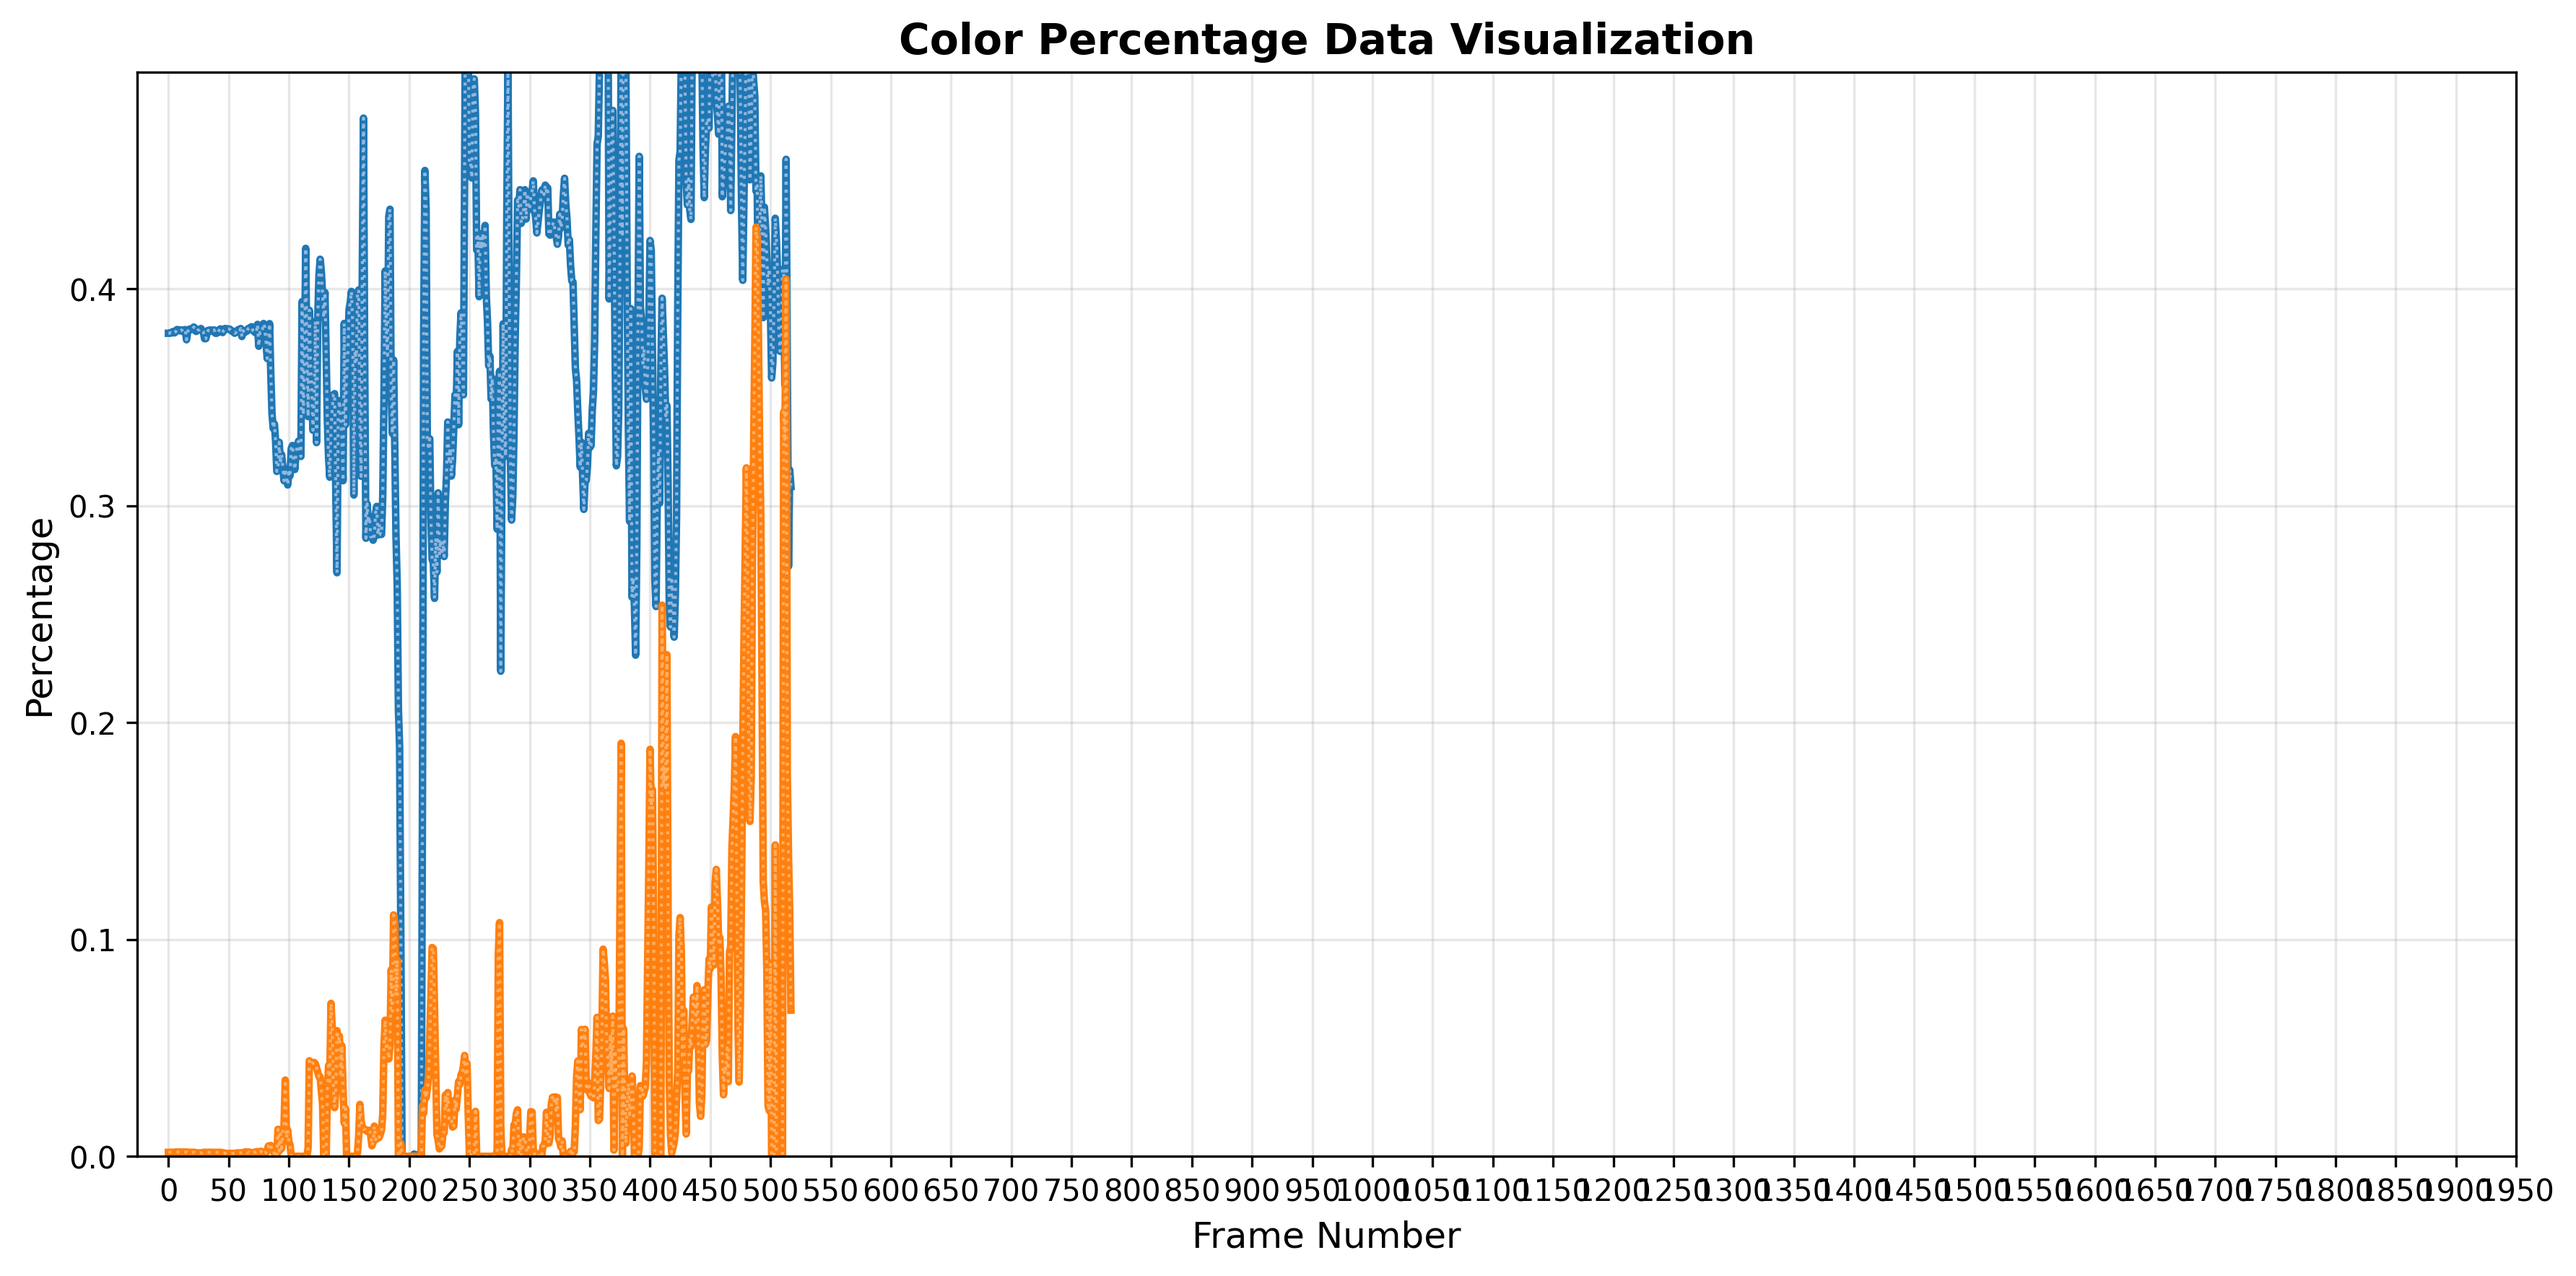
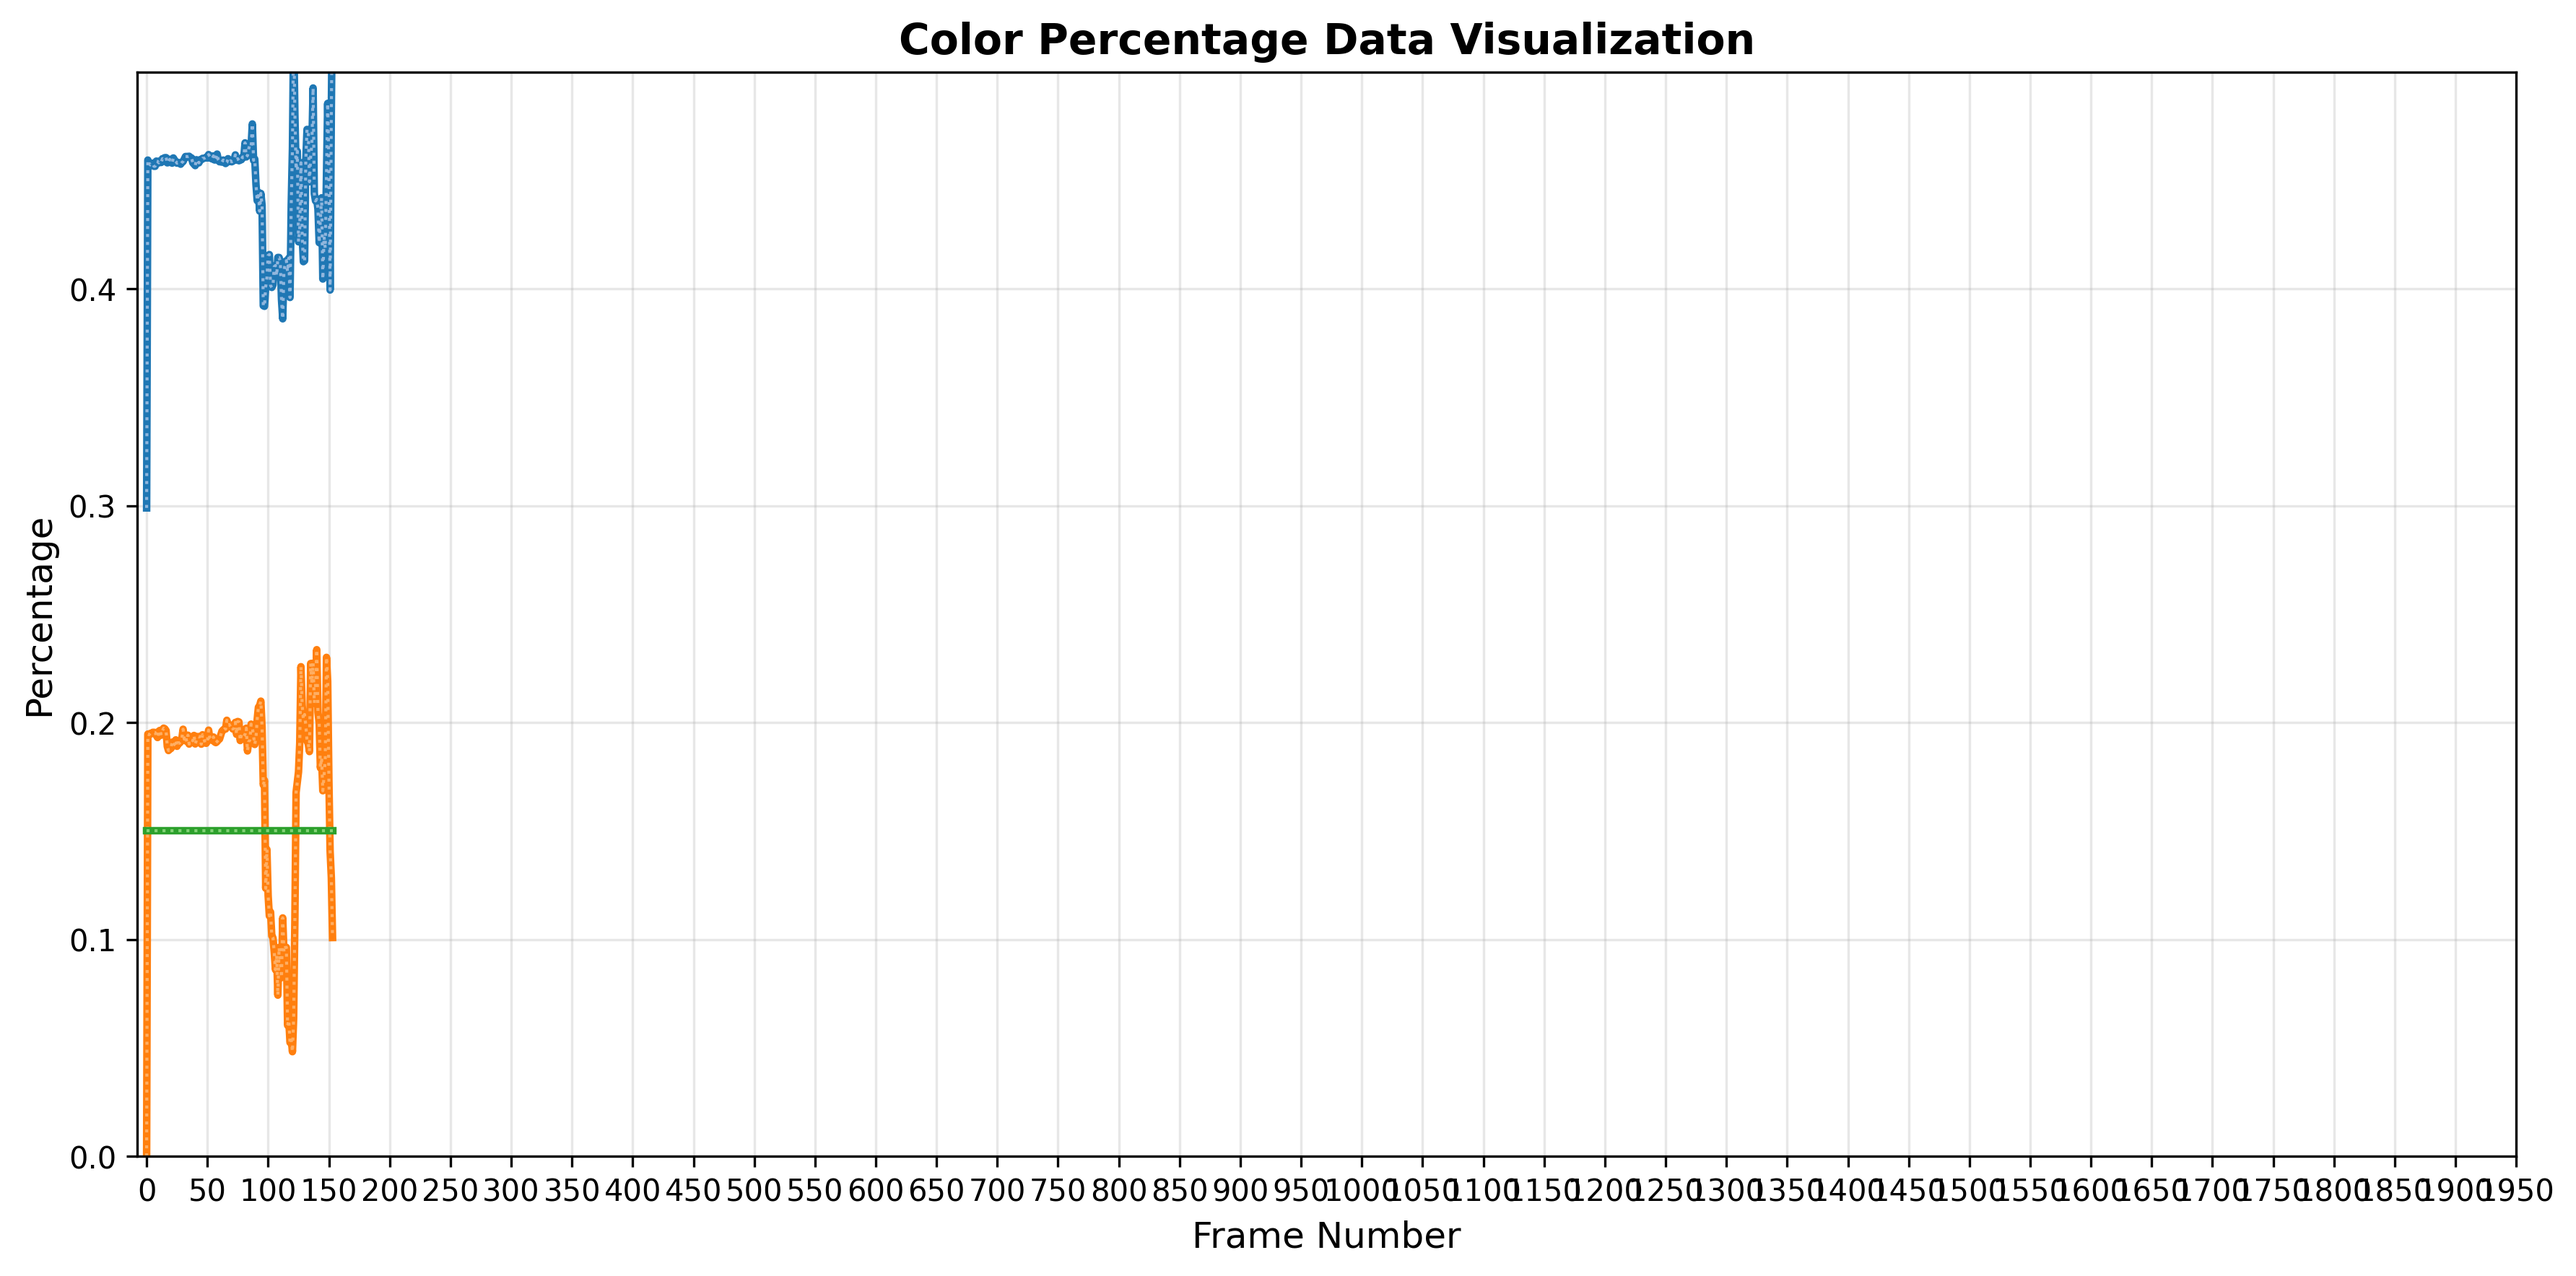
running first run everytime even when we have warpandcolorpicking false and also fixed thresholdset variable

Changed region(s): [[0.0311, 0.0622, 0.9333, 0.9644]]

diff --git a/corner_detection/corner_detection_helpers.py b/corner_detection/corner_detection_helpers.py
@@ -4,7 +4,7 @@ import numpy as np
 import csv
 import pandas as pd
 FONT = cv2.FONT_HERSHEY_SIMPLEX
-MIN_THRESHOLD = 0.035
+MIN_THRESHOLD = 0.075 # TODO: come back to this TEST
 
 @staticmethod
 def find_bot_color_pixels(image: np.ndarray, bot_color_hsv: list) -> int:
@@ -58,15 +58,13 @@ def get_contours_per_color(side: str, hsv_image: np.ndarray, selected_colors) ->
     contours, _ = cv2.findContours(mask, cv2.RETR_EXTERNAL, cv2.CHAIN_APPROX_SIMPLE)
     return contours
 
-def find_our_bot(self, images: list[np.ndarray], bot_color_hsv, threshold_not_set=False) -> tuple[np.ndarray | None, int] | None:
+def find_our_bot(self, images: list[np.ndarray], bot_color_hsv, threshold_set=True) -> tuple[np.ndarray | None, int] | None:
     """
     Identifies which image contains our robot based on a predefined robot color.
 
-    Args:
-        images (list[np.ndarray]): List of input images.
+    Args: images (list[np.ndarray]): List of input images.
 
-    Returns:
-        np.ndarray: The image containing our robot.
+    Returns: np.ndarray: The image containing our robot.
     """
     try:
         if not images:
@@ -77,21 +75,16 @@ def find_our_bot(self, images: list[np.ndarray], bot_color_hsv, threshold_not_se
         bot_color_percentages = []
 
         for image in images: #this for loop handles whether the image is the huey bot
-            total_pixels = np.shape(image)[0]*np.shape(image)[1]
-
             if image is None:
                 print("Warning: One of the images is None, skipping...")
                 continue
             
             color_pixel_count = find_bot_color_pixels(image, bot_color_hsv)
-            # print("OOGABOOGA", color_pixel_count)
-
             image_area = image.size/3
             color_percentage = color_pixel_count/image_area
-            # print(f"OOGABOOGA {color_pixel_count}, {image_area}, {color_percentage}")
-
             bot_color_percentages.append(color_percentage)
-            #check if the next if statement is redundant since we are tracking the percentages with the list...
+            
+            # check if the next if statement is redundant since we are tracking the percentages with the list...
             # and sorting it to find the max. potentially, we do not need this calculation. Another note,
             # the color percentages are very variable during the match so i don't know if we should just 
             # continuously set a max.      
@@ -101,19 +94,62 @@ def find_our_bot(self, images: list[np.ndarray], bot_color_hsv, threshold_not_se
 
         bot_color_percentages.sort()
         #self.color_percentage_rows.append((bot_color_percentages[-1], bot_color_percentages[-2]))
-        
-        if threshold_not_set: #Set initial threshold
-            if len(bot_color_percentages) > 1 and bot_color_percentages[-1] > 0:
-                self.huey_color_percentage_threshold = max((bot_color_percentages[-1] + bot_color_percentages[-2]) / 2, MIN_THRESHOLD)
-                print("Threshold: " + str(self.huey_color_percentage_threshold))
-            elif len(bot_color_percentages) == 1:
-                self.huey_color_percentage_threshold = max(bot_color_percentages[0] - 0.075, MIN_THRESHOLD)
-                print("Threshold: " + str(self.huey_color_percentage_threshold))
-        if len(bot_color_percentages) == 1 and max_color_percentage < self.huey_color_percentage_threshold:
-            our_bot_image = None
-        elif len(bot_color_percentages) > 1 and max_color_percentage < min(MIN_THRESHOLD, self.huey_color_percentage_threshold):
-            our_bot_image = None
 
+        ### ———————————————————————————————————————————————————————————— ###
+
+        print("find_our_bot: " + str(threshold_set))
+        
+        # Case 1: Setting the initial threshold based on the very first frame
+        if not threshold_set:
+            print("case 1")
+            # Case 1.1: If we see 2 or more robots
+            if len(bot_color_percentages) > 1 and bot_color_percentages[-1] > 0:
+                print("case 1.1")
+                huey_color_percentage = bot_color_percentages[-1]
+                enemy_color_percentage = bot_color_percentages[-2]
+                print("huey_color_percentage: " + str(huey_color_percentage))
+                print("enemy_color_percentage: " + str(enemy_color_percentage))
+
+                self.huey_color_percentage_threshold = max((huey_color_percentage + enemy_color_percentage) / 2, MIN_THRESHOLD)
+                print("Initial Threshold: " + str(self.huey_color_percentage_threshold))
+            # Case 1.2: If we see only 1 robot. We use the static threshold because that robot could be us or not
+            else:
+                print("case 1.2")
+                self.huey_color_percentage_threshold = max(bot_color_percentages[0] - 0.075, MIN_THRESHOLD)
+                print("Initial Threshold: " + str(self.huey_color_percentage_threshold))
+
+        # Case 2: Setting threshold after initial frame based on self.dynamic_threshold_window
+        # TODO: figure out the optimal dynamic_threshold_window value, which is set in corner_detection.py
+        elif len(self.color_percentage_rows) > 0 and len(self.color_percentage_rows) % self.dynamic_threshold_window == 0:
+            recent_frames = self.color_percentage_rows[-self.dynamic_threshold_window:]
+            print("recent_frames: " + str(recent_frames))
+            print("len(recent_frames): " + str(len(recent_frames)))
+
+            midpoints = []
+            for frame in recent_frames:
+                huey_percentage, enemy_percentage = frame
+                midpoints.append((huey_percentage + enemy_percentage)/2)
+            print("midpoints: " + str(midpoints))
+
+            self.huey_color_percentage_threshold = max(sum(midpoints) / len(recent_frames), MIN_THRESHOLD)
+            print("huey_color_percentage_threshold: " + huey_color_percentage_threshold)
+
+
+
+
+        
+        ### —————————————————————————————————————————————————————————————————————————————————————————— ###
+
+
+
+
+        # Say we can't find huey if the bot's are below the huey threshold (for recovery)
+        if len(bot_color_percentages) == 1 and bot_color_percentages[-1] < self.huey_color_percentage_threshold:
+            our_bot_image = None
+        elif len(bot_color_percentages) > 1 and bot_color_percentages[-1] < min(MIN_THRESHOLD, self.huey_color_percentage_threshold):
+            our_bot_image = None
+        
+        ### —————————————————————————————— STATIC THRESHOLD GRAPHING —————————————————————————————— ###
         
         #Writing information to be graphed
         if len(bot_color_percentages) >= 2:
@@ -125,6 +161,10 @@ def find_our_bot(self, images: list[np.ndarray], bot_color_hsv, threshold_not_se
                 self.color_percentage_rows.append((0, bot_color_percentages[0], self.huey_color_percentage_threshold))
         elif len(bot_color_percentages) == 0:
             self.color_percentage_rows.append((0, 0, self.huey_color_percentage_threshold))
+
+        
+        ### —————————————————————————————————————————————————————————————————————————————————————————— ###
+        
 
         # if our_bot_image is None:
         #     print("Huey is not found")

diff --git a/corner_detection/corner_detection.py b/corner_detection/corner_detection.py
@@ -9,7 +9,7 @@ class RobotCornerDetection:
     based on their unique colors and shapes.
     """
     
-    def __init__(self, selected_colors: list, display_final_image: bool = False, display_possible_hueys: bool = False, color_percentage_rows = []):
+    def __init__(self, selected_colors: list, display_final_image: bool = False, display_possible_hueys: bool = False, frame_rate = 120):
         """
         Initializes the RobotCornerDetection class.
 
@@ -29,13 +29,14 @@ class RobotCornerDetection:
         self.display_final_image = display_final_image
         self.display_possible_hueys = display_possible_hueys
         self.huey_color_percentage_threshold = -1
-        self.color_percentage_rows = color_percentage_rows
+        self.color_percentage_rows = []
         self.centroids = []
+        self.dynamic_threshold_window = frame_rate # Time/Number of Frames for the dynamic threshold for FindOurBot
 
     def set_bots(self, bots: dict):
         self.bots = bots
     
-    def detect_our_robot_main(self, bot_images: list[np.ndarray], threshold_not_set=False) -> np.ndarray:
+    def detect_our_robot_main(self, bot_images: list[np.ndarray], threshold_set=True) -> np.ndarray:
         """
         Detects the image containing our robot between two or more given images.
 
@@ -67,7 +68,8 @@ class RobotCornerDetection:
 
             if bot_images and all(img is not None for img in bot_images):
                 bot_color = self.selected_colors[0]
-                our_bot = find_our_bot(self, bot_images, bot_color, threshold_not_set)
+                our_bot = find_our_bot(self, bot_images, bot_color, threshold_set)
+                print("detect_our_robot_main: " + str(threshold_set))
 
                 return our_bot
             else:
@@ -78,7 +80,7 @@ class RobotCornerDetection:
             print(f"Unexpected error in detect_our_robot_main: {e}")
             return None
 
-    def corner_detection_main(self, threshold_not_set=False) -> dict | None:
+    def corner_detection_main(self, threshold_set=True) -> dict | None:
         """
         Main function for detecting corners and orientation of the robot.
 
@@ -87,7 +89,8 @@ class RobotCornerDetection:
         """
         try:
             bot_images = [bot["img"] for bot in self.bots["bots"]]
-            image = self.detect_our_robot_main(bot_images, threshold_not_set)
+            print("corner_detection_main: " + str(threshold_set))
+            image = self.detect_our_robot_main(bot_images, threshold_set)
             
             if image is not None:
                 # Find the identified bot (our robot)

diff --git a/main.py b/main.py
@@ -144,7 +144,7 @@ def main():
         predictor = get_predictor(MODEL_NAME, OD_IMG_SIZE)
 
         # Initialize corner detection
-        corner_detection = RobotCornerDetection(selected_colors, False, False)
+        corner_detection = RobotCornerDetection(selected_colors, False, False, FRAME_RATE)
 
         # Initialize transmission TODO: Figure out whether we need weapon_motor_group and JANK_CONTROLLER
         if IS_TRANSMITTING:
@@ -155,12 +155,16 @@ def main():
 
         cv2.destroyAllWindows()
 
-        # Initialize algorithm
-        if WARP_AND_COLOR_PICKING:
-            algorithm = first_run(predictor, warped_frame,
-                                  SHOW_FRAME, corner_detection, selected_colors)
-        else:
-            algorithm = Ram()
+        # # Initialize algorithm
+        # if WARP_AND_COLOR_PICKING:
+        #     algorithm = first_run(predictor, warped_frame,
+        #                           SHOW_FRAME, corner_detection, selected_colors)
+        # else:
+        #     algorithm = Ram()
+
+        algorithm = first_run(predictor, warped_frame, SHOW_FRAME, corner_detection, selected_colors)
+
+        ### TODO: call dynamic threshold here
 
         # Initialize BBox save directory
         if SAVE_BBOXES:
@@ -358,6 +362,8 @@ def main():
                 if frames["main"] is not None and SHOW_FRAME:
                     name = "Battle with Predictions" if DISPLAY_ANGLES else "Bounding boxes (no angles)"
                     cv2.imshow(name, frames["main"])
+                    # cv2.waitKey(0)
+                    # cv2.destroyAllWindows()
 
                 if frames["huey"] is not None and SHOW_QUANTIZED_HUEY:
                     cv2.imshow("Quantized Huey", frames["huey"])

diff --git a/main_helpers.py b/main_helpers.py
@@ -155,8 +155,7 @@ def first_run(predictor, warped_frame, SHOW_FRAME, corner_detection, selected_co
     first_run_ml = quantize(first_run_ml, selected_colors,
                             show=False, is_flipped=False)
     corner_detection.set_bots(first_run_ml)
-    first_run_orientation = corner_detection.corner_detection_main(
-        threshold_not_set=True)
+    first_run_orientation = corner_detection.corner_detection_main(threshold_set=False)
 
     if first_run_orientation and first_run_orientation["huey"] and first_run_orientation["enemy"]:
         # Ensure single enemy
